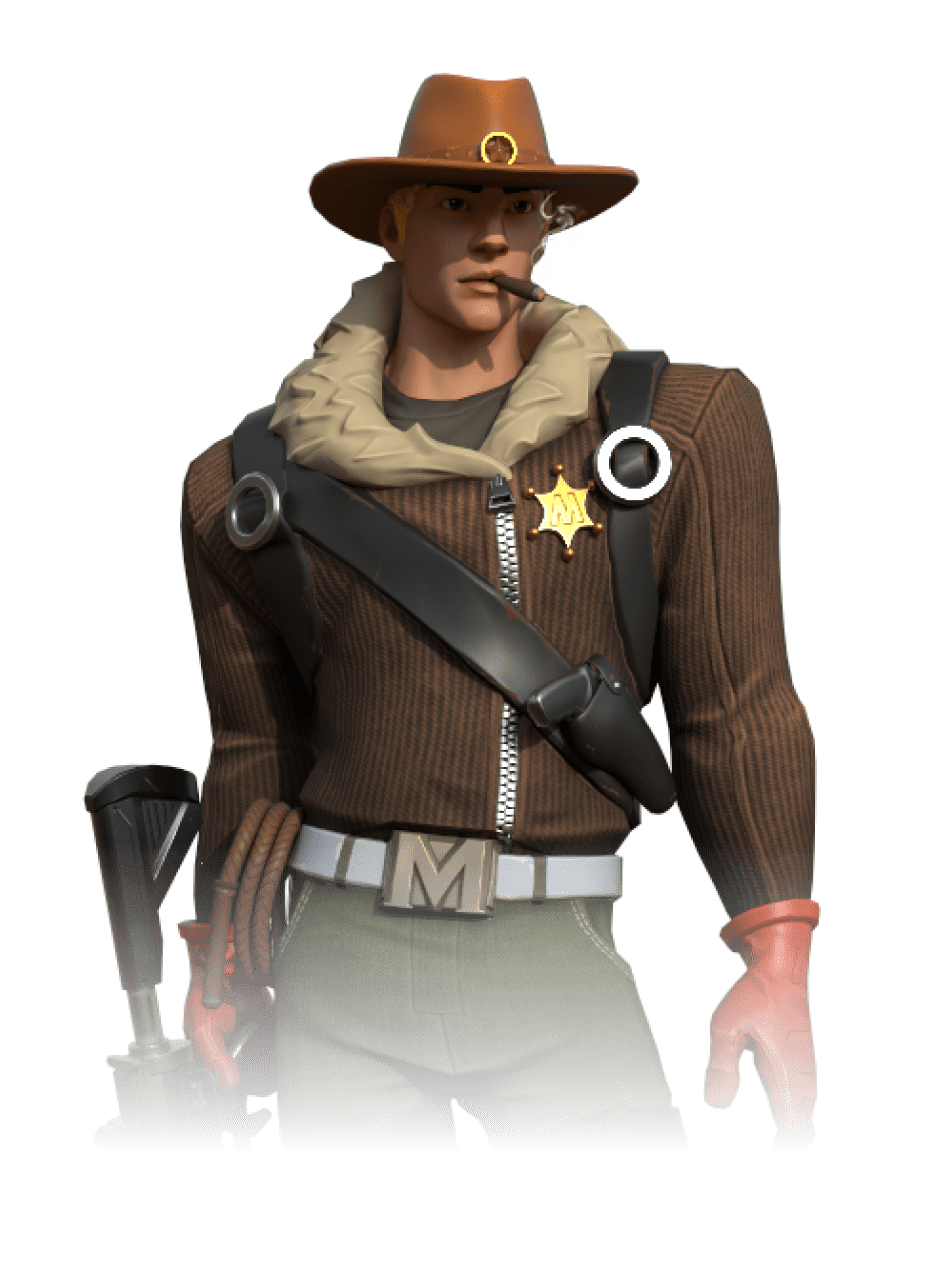
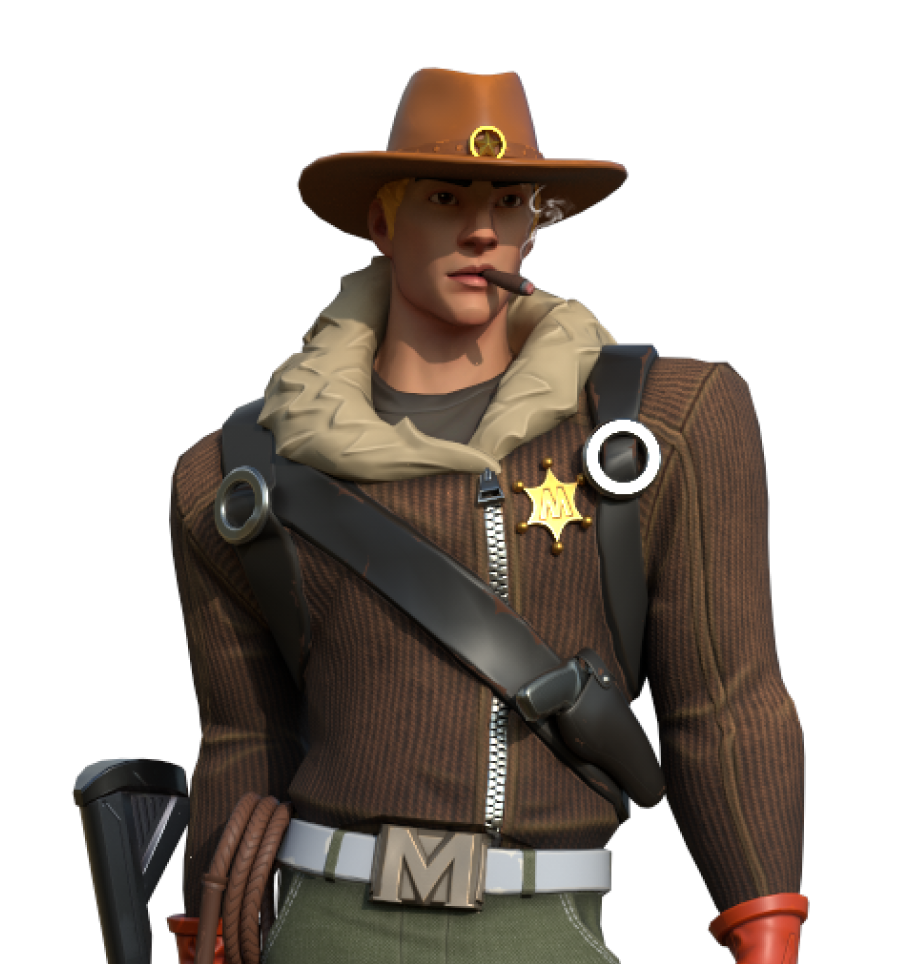
fixing issues

diff --git a/src/pages/about-us.tsx b/src/pages/about-us.tsx
@@ -29,8 +29,8 @@ const data: Person[] = [
     description:
       'Andrew has been a tech executive in the gaming industry with a career spanning over 27 years. He has worked with some of the most recognizable names in the industry, including Activision, Electronic Arts, 2K, Ubisoft, Sony, and Midway. ',
     socials: {
-      twitter: 'https://abc.com',
-      linkedin: 'https://abc.com'
+      twitter: '',
+      linkedin: 'https://www.linkedin.com/in/andrewsilber'
     }
   },
   {
@@ -39,8 +39,8 @@ const data: Person[] = [
     description:
       'A serial entrepreneur and Web3 proponent with over 15 years of founding experience including four multinational VC-backed companies in traditional tech. More recently founding aliens.com and a blockchain P2E platform. ',
     socials: {
-      twitter: 'https://abc.com',
-      linkedin: 'https://abc.com'
+      twitter: 'https://twitter.com/gooseara',
+      linkedin: ''
     }
   },
   {
@@ -49,8 +49,8 @@ const data: Person[] = [
     description:
       'Brendan brings a decade of experience in blockchain. He has founded an escrow solution on the Bitcoin blockchain, a crypto ETF on ethereum, and was blockchain lead for the world’s largest trade finance blockchain network.',
     socials: {
-      twitter: 'https://abc.com',
-      linkedin: 'https://abc.com'
+      twitter: '',
+      linkedin: 'https://www.linkedin.com/in/brendan-d-4ba3b698'
     }
   },
   {
@@ -59,18 +59,18 @@ const data: Person[] = [
     description:
       'Ivan has 10+ years of experience in the game industry. He has been a lead game designer at Gameloft, CrazyLabs, GPG (Ubisoft), Sperasoft, and more, with his games amassing billions of downloads.',
     socials: {
-      twitter: 'https://abc.com',
-      linkedin: 'https://abc.com'
+      twitter: 'https://twitter.com/IvanFortunov',
+      linkedin: 'https://www.linkedin.com/in/fortunov/'
     }
   },
   {
-    name: 'Jem Law',
-    position: 'General Manager',
+    name: 'Lucas Bean',
+    position: '-',
     description:
-      'Jem brings a breadth of business operations and strategy experience, including 10+ years working with corporate companies in pitching and fundraising, and 6 years managing strategy execution for tech and blockchain companies.',
+      '-',
     socials: {
-      twitter: 'https://abc.com',
-      linkedin: 'https://abc.com'
+      twitter: '',
+      linkedin: 'https://www.linkedin.com/in/lucasbean/'
     }
   },
   {
@@ -79,18 +79,18 @@ const data: Person[] = [
     description:
       'A dynamic, entreprenurial executive with over 8+ years in management consulting, focusing on organisational transformations for global companies such as Verizon, Vanguard, Kayo Streaming and more. More recently founding aliens.com.  ',
     socials: {
-      twitter: 'https://abc.com',
-      linkedin: 'https://abc.com'
+      twitter: 'https://twitter.com/0xMetaFrog',
+      linkedin: ''
     }
   },
   {
-    name: 'Antonio Molina',
-    position: 'Game Producer',
+    name: 'Jem Law',
+    position: 'General Manager',
     description:
-      'With 15+ year experience working in the gaming industry, Antonio has contributed to some of the worlds leading titles and brands such as The Witcher, Disney and more. ',
+      'Jem brings a breadth of business operations and strategy experience, including 10+ years working with corporate companies in pitching and fundraising, and 6 years managing strategy execution for tech and blockchain companies.',
     socials: {
-      twitter: 'https://abc.com',
-      linkedin: 'https://abc.com'
+      twitter: '',
+      linkedin: 'https://www.linkedin.com/in/jemimalaw/'
     }
   },
   {
@@ -99,18 +99,8 @@ const data: Person[] = [
     description:
       'AJ has over 20 years of multidisciplinary design experience— from web and apparel design, to crafting brand identities. He has worked with global brands including Nike, Adidas and Microsoft, among others. ',
     socials: {
-      twitter: 'https://abc.com',
-      linkedin: 'https://abc.com'
-    }
-  },
-  {
-    name: 'Brock',
-    position: 'Product Lead - Blockchain',
-    description:
-      'Brock is an entreprenurial product lead with over 10+ years experience working in the tech startups and founded his own MarTech company. More recently, he helped scale one of the largest blockchain companies focusing on product tokenomics and growth. ',
-    socials: {
-      twitter: 'https://abc.com',
-      linkedin: 'https://abc.com'
+      twitter: 'https://twitter.com/ajdimarucot',
+      linkedin: 'https://linkedin.com/in/ajdimarucot'
     }
   },
   {
@@ -119,30 +109,20 @@ const data: Person[] = [
     description:
       'Craig brings over 10+ years of experience in leading web & app UI/UX design and crafting brand identities. He has worked with global companies across industires such as communications, financial institutions, media and more.',
     socials: {
-      twitter: 'https://abc.com',
-      linkedin: 'https://abc.com'
+      twitter: 'https://twitter.com/Lennicus',
+      linkedin: 'https://www.linkedin.com/in/craiglstanford/'
     }
   },
   {
-    name: 'x',
-    position: 'x',
+    name: 'Antonio Molina',
+    position: 'Game Producer',
     description:
-      'Brock is an entreprCraig brings over 10+ years of experience in leading web & app UI/UX design and crafting brand identities. He has worked with global companies across industires such as communications, financial institutions, media and more.',
+      'With 15+ year experience working in the gaming industry, Antonio has contributed to some of the worlds leading titles and brands such as The Witcher, Disney and more. ',
     socials: {
-      twitter: 'https://abc.com',
-      linkedin: 'https://abc.com'
+      twitter: '',
+      linkedin: 'https://www.linkedin.com/in/antoniomolina34/'
     }
   },
-  {
-    name: 'Kidono Huang',
-    position: 'Partner Lead',
-    description:
-      'Kidono is an experienced partner lead with extensive experience managing external development engagements. He has worked with some of the largest game production companies, including Marvel, Tencent, Winkings and more.',
-    socials: {
-      twitter: 'https://abc.com',
-      linkedin: 'https://abc.com'
-    }
-  }
 ];
 
 const principles = [
@@ -281,8 +261,8 @@ const AboutUs: React.FC = () => {
               {data.map((person, idx) => (
                 <article
                   key={idx}
-                  className="text-center flex flex-col rounded-[20px] md:pt-[50px] md:pb-[40px] p-[32px] bg-brand-deep-blue">
-                  <p className="body-lg">{person.name}</p>
+                  className="lg:last:[grid-column:span_1/-2] text-center flex flex-col rounded-[20px] md:pt-[50px] md:pb-[40px] p-[32px] bg-brand-deep-blue">
+                  <p className="body-lg font-bold ">{person.name}</p>
                   <p className="mt-4 font-bold body">{person.position}</p>
                   <p className="mt-6 mb-auto body-sm text-light">{person.description}</p>
                   <div className="grid grid-flow-col justify-center gap-6 mt-[35px] opacity-50">
@@ -291,7 +271,7 @@ const AboutUs: React.FC = () => {
                         <TwitterWithBackgroundIcon />
                       </a>
                     )}
-                    {person.socials.twitter && (
+                    {person.socials.linkedin && (
                       <a href={person.socials.linkedin} className="w-[24px]">
                         <LinkedinWithBackgroundIcon />
                       </a>

diff --git a/src/components/interop/DesktopInterop.tsx b/src/components/interop/DesktopInterop.tsx
@@ -300,7 +300,7 @@ const DesktopInterop: React.FC = () => {
             </div>
           </div>
         </section>
-        <section className={clsx(paddingX, 'mt-[88px]')} ref={el}>
+        <section className={clsx(paddingX, 'xl:px-[196px] mt-[88px]')} ref={el}>
           <div className="gsap-total-how-word flex gap-[26px]">
             <div className="min-w-[500px]">
               <div className="gsap-wrap-text-how-work">
@@ -361,7 +361,7 @@ const DesktopInterop: React.FC = () => {
                         src="/images/interoperability/Vortex@2x.png"
                         alt=""
                         width={1757}
-                        height={1368}
+                        height={1757}
                         layout="responsive"
                       />
                     </div>
@@ -370,7 +370,7 @@ const DesktopInterop: React.FC = () => {
                         src="/images/interoperability/Hat@2x.png"
                         alt=""
                         width={1757}
-                        height={1368}
+                        height={1757}
                         layout="responsive"
                         className="absolute top-0 w-full scale-75 object-contain"
                       />
@@ -380,9 +380,9 @@ const DesktopInterop: React.FC = () => {
                         src="/images/interoperability/Cowboy Human@2x.png"
                         alt=""
                         width={1757}
-                        height={1368}
+                        height={1757}
                         layout="responsive"
-                        className="absolute top-0 w-full scale-90 object-contain"
+                        className="absolute top-0 w-full scale-90 object-contain rounded-[50%]"
                       />
                     </div>
                     <div className="absolute top-0 w-full gsap-img-cartoon">
@@ -390,7 +390,7 @@ const DesktopInterop: React.FC = () => {
                         src="/images/interoperability/Cowboy Cartoon@2x.png"
                         alt=""
                         width={1757}
-                        height={1368}
+                        height={1757}
                         layout="responsive"
                         className="absolute top-0 w-full scale-90 object-contain"
                       />

diff --git a/src/components/JoinTheRevolution.tsx b/src/components/JoinTheRevolution.tsx
@@ -13,7 +13,7 @@ const JoinTheRevolution: React.FC<Props> = ({ textAnimation }) => {
       <h2 data-aos={textAnimation} className="md:mt-4 heading-md md:heading-lg">
         We’re hiring, join the future of gaming
       </h2>
-      <p data-aos={textAnimation} className="mt-4 md:mt-6 max-w-[616px] body text-light">
+      <p data-aos={textAnimation} className="mt-4 md:mt-6 max-w-[616px] body-sm text-light">
         If you want to make a real impact in gaming and blockchain, join us at Myria. We’re scouring
         the world for the best and brightest to join our rapidly growing company.
       </p>
